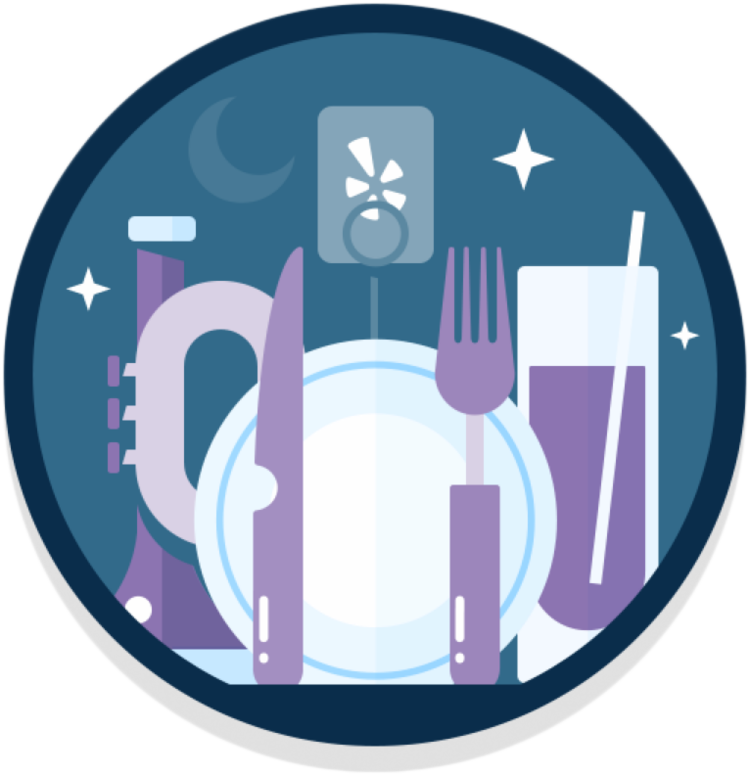
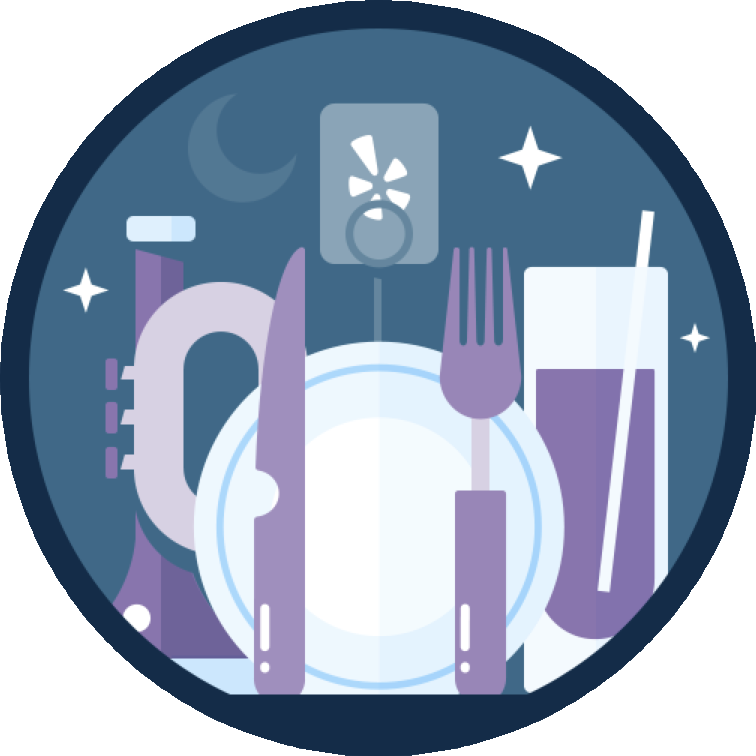
Cropped new images from yelp, also have better spacing

diff --git a/src/styles/main.scss b/src/styles/main.scss
@@ -15,11 +15,12 @@ html, body {
   display: flex;
   flex-direction: row;
   align-items: stretch;
-  width: 100%;
+  width: 100vw;
   max-width: 680px;
+  padding: 12px;
 
   &.middle-row {
-    border-bottom: 1px solid black;
+    border-bottom: 1px solid rgba(0, 0, 0, 0.5);
   }
 
   .badges-list-left {
@@ -46,7 +47,7 @@ html, body {
     flex-direction: column;
     justify-content: space-between;
     flex-grow: 2;
-    padding: 12px;
+    padding: 12px 0 12px 12px;
 
     .badges-list-requirement {
       margin-top: 12px;
